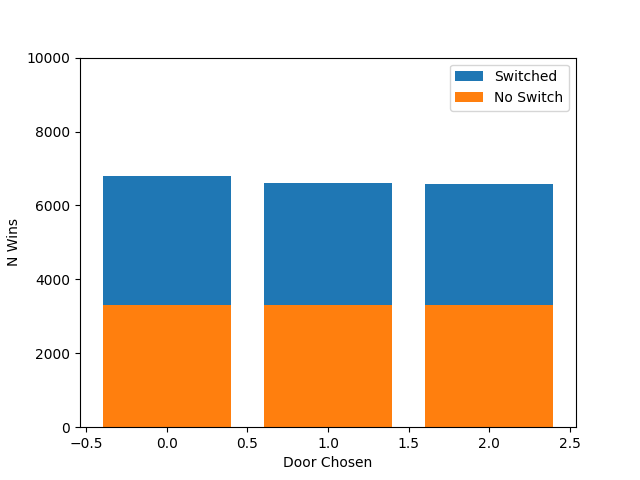
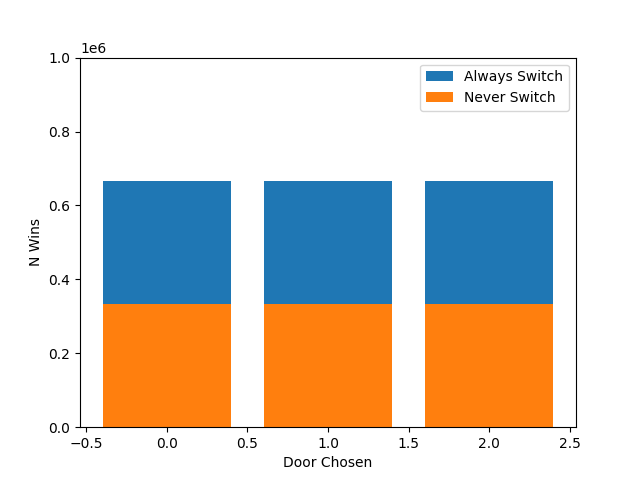
Update README.md

diff --git a/README.md b/README.md
@@ -2,6 +2,4 @@ Experiment on the Monty Hall Problem to see if you actually get a 2/3 chance of 
 
 => You actually have a 2/3 chance of winning if you switch doors.
 
-The slightly higher chance of winning on Door 0 shown in the plot comes exclusively from random chance.
-
-![A plot that shows that switching doors gives one a 2/3 chance of winning](/images/Figure_1.png)
+![A bar plot that shows that switching doors gives one a 2/3 chance of winning after one million played games per bar](/images/Figure_1.png)
